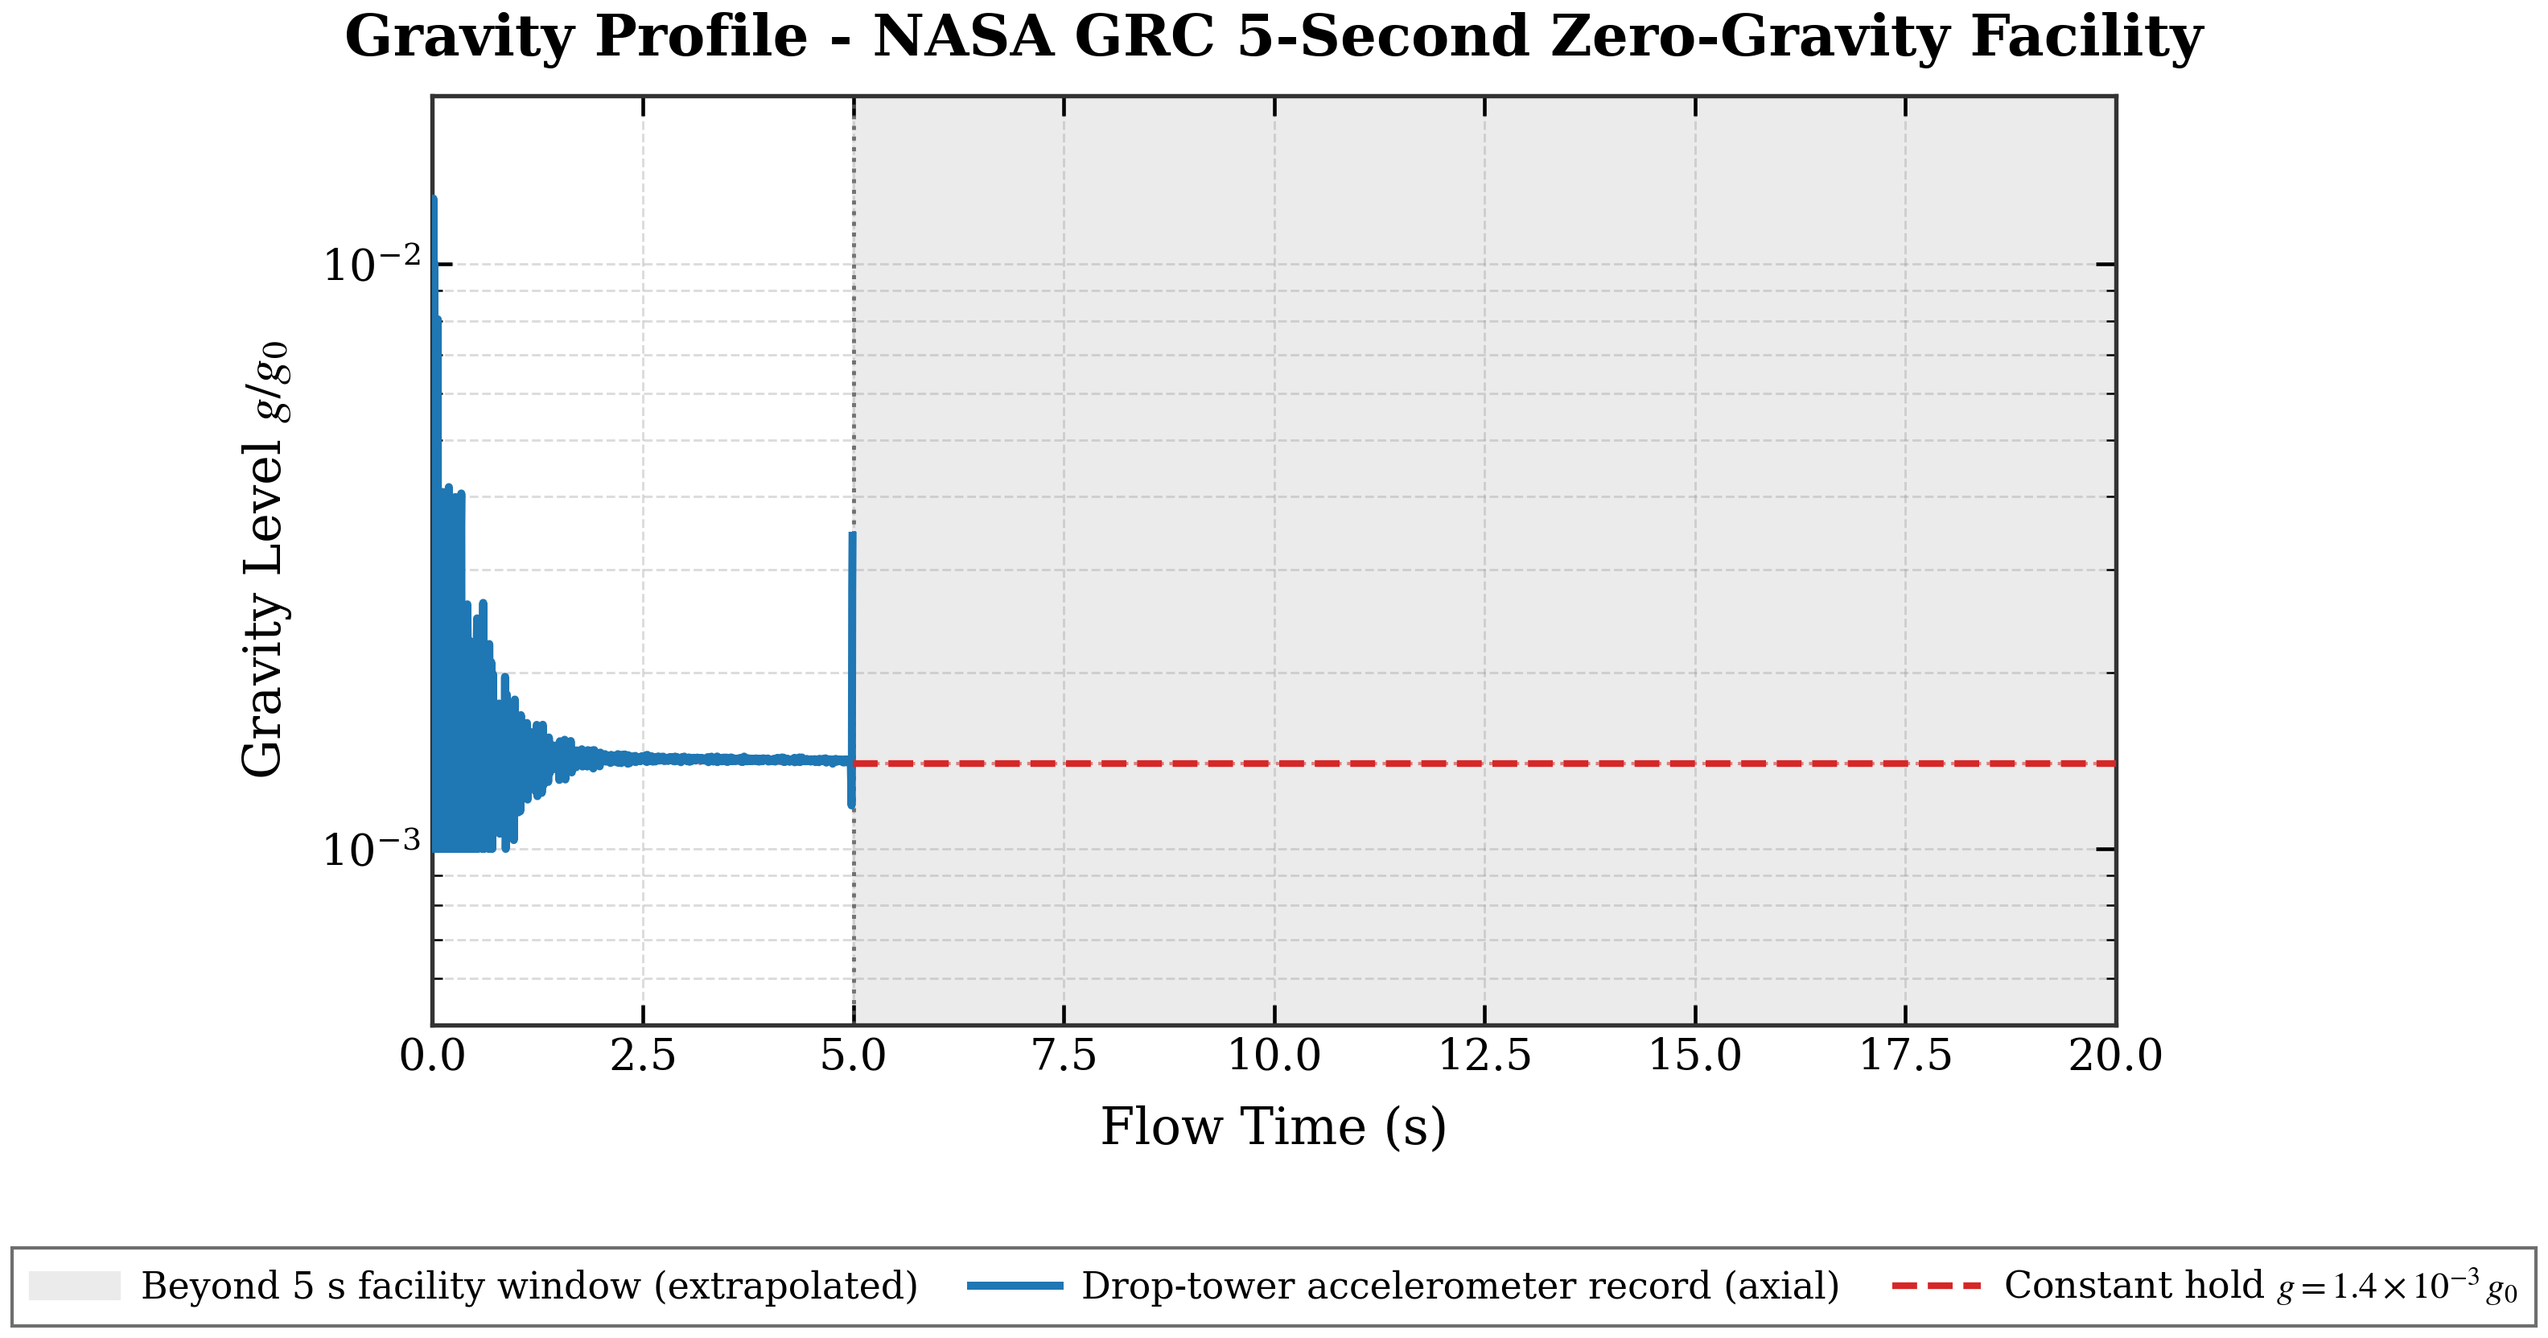
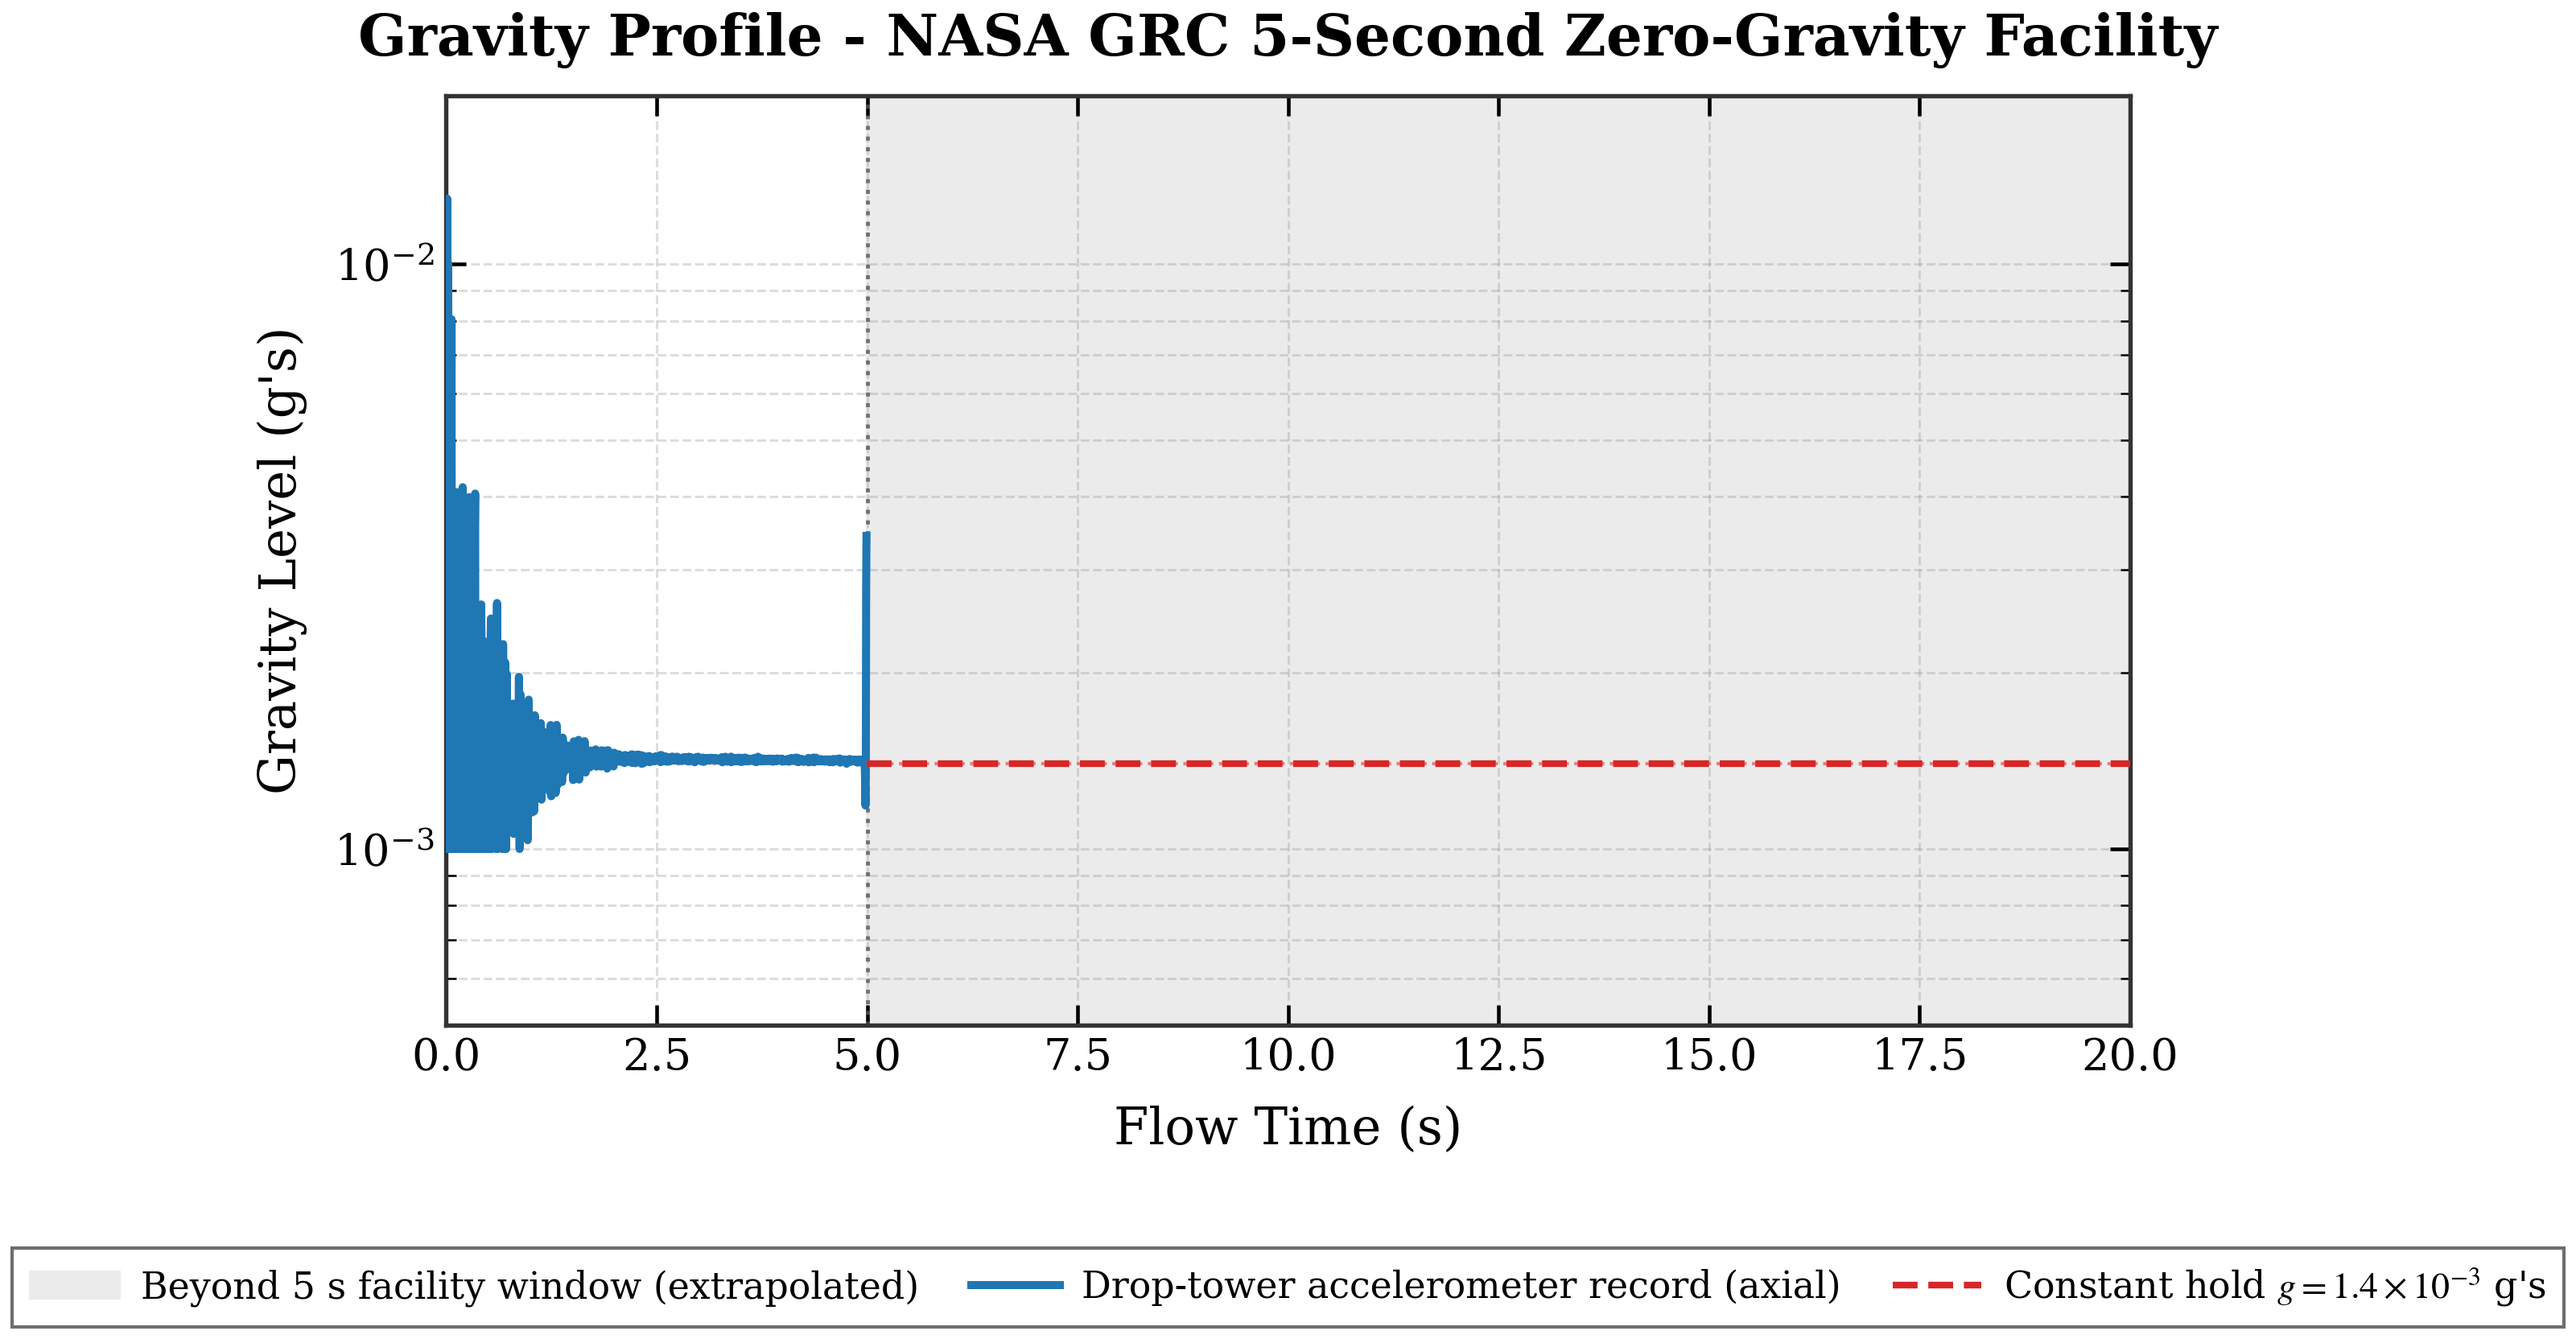
Add raw 3-axis accelerometer figure (unfiltered) preceding processed gravity profile; relabel y-axis 'g/g0' -> 'g's' on processed profile; supporting text describes capsule-release ringdown transient and lateral-residual magnitudes

diff --git a/main.tex b/main.tex
@@ -303,12 +303,23 @@ The candidate platforms were:
     \item \textbf{Parabolic Flight Campaigns:} $\sim 17\,\text{s}$ of reduced gravity ($\sim 10^{-2}$ to $10^{-3}\,$g with typical g-jitter), permitting longer-term thermodynamic stabilization and quasi-steady boiling.
 \end{itemize}
 
-Facility-specific gravity histories are incorporated through a custom \texttt{gravity\_function} callback. For the 5-second zero-gravity facility, accelerometer data from prior drop-tower tests (normalized time, axial acceleration) are converted to m/s$^2$ (ft/s$^2$ internally). The full profile applied to every nitrogen LIQLEV case is shown in Figure~\ref{fig:gravity_profile}: an early ($t \lesssim 0.5\,\text{s}$) transient near $\sim 10^{-2}\,g_0$ associated with capsule release, a damped ringdown over $0.5$--$2\,\text{s}$, and a quasi-steady residual of $\sim 1\text{--}2 \times 10^{-3}\,g_0$ for the remainder of the test window. A constant hold value of $1.4 \times 10^{-3}\,g_0$ is appended past the last measured point so each simulation can be integrated beyond the nominal $5\,\text{s}$ window out to $20\,\text{s}$ (red dashed line in Figure~\ref{fig:gravity_profile}). This post-cutoff segment is a deliberate \textit{hypothetical} extension---the drop tower terminates microgravity at $5\,\text{s}$---used to verify that the predicted peak LLR within the real $5\,\text{s}$ window approaches its asymptotic value. The shaded region beyond $5\,\text{s}$ in this figure and in all subsequent time-history figures marks this extrapolation.
+Facility-specific gravity histories are incorporated through a custom \texttt{gravity\_function} callback. For the 5-second zero-gravity facility, accelerometer data from prior drop-tower tests are post-processed (capsule-aligned axial component, sign-corrected, sampled on a normalized $0$--$5\,\text{s}$ timeline) and converted to m/s$^2$ (ft/s$^2$ internally) before being passed to the solver.
+
+The unfiltered three-axis sensor record from a representative drop is shown in Figure~\ref{fig:gravity_raw} and provides context for the post-processed signal that the solver actually consumes. Immediately after capsule release ($t \lesssim 0.3\,\text{s}$) the axial channel exhibits a damped mechanical-release transient with peak excursions of $\pm 10^{-2}\,$g's, after which all three axes settle to a quasi-steady residual of $\sim 10^{-3}\,$g's for the remainder of the drop. The lateral residuals ($a_y$, $a_z$) remain within $\pm 2 \times 10^{-3}\,$g's once the ringdown decays and are negligible for the boundary-layer-driven LLR analysis, which is dominated by the axial component aligned with the gravity vector.
+
+\begin{figure}[!htbp]
+\centering
+\includegraphics[width=0.95\textwidth]{images/gravity_profile/gravity_raw_5s_si.png}
+\caption{Unfiltered three-axis accelerometer record from a representative NASA GRC 5-second Zero-Gravity Research Facility drop test. Time is normalized to capsule release at $t = 0\,\text{s}$. The axial channel ($a_x$, blue) carries the dominant signal aligned with the gravity vector; the lateral channels ($a_y$, $a_z$, green and red) capture residual capsule motion and remain within $\pm 2 \times 10^{-3}\,$g's after the early ringdown decays.}
+\label{fig:gravity_raw}
+\end{figure}
+
+The processed profile actually applied to every nitrogen LIQLEV case is shown in Figure~\ref{fig:gravity_profile}: it takes the magnitude of $a_x$ from the raw record (cropped to positive values for the solver's gravity-magnitude convention) and appends a constant hold value of $1.4 \times 10^{-3}\,$g's past the last measured point so each simulation can be integrated beyond the nominal $5\,\text{s}$ window out to $20\,\text{s}$ (red dashed line in Figure~\ref{fig:gravity_profile}). This post-cutoff segment is a deliberate \textit{hypothetical} extension---the drop tower terminates microgravity at $5\,\text{s}$---used to verify that the predicted peak LLR within the real $5\,\text{s}$ window approaches its asymptotic value. The shaded region beyond $5\,\text{s}$ in this figure and in all subsequent time-history figures marks this extrapolation.
 
 \begin{figure}[!htbp]
 \centering
 \includegraphics[width=0.95\textwidth]{images/gravity_profile/gravity_profile_5s_si.png}
-\caption{Axial gravity profile applied to the LIQLEV 5-second drop-tower simulations. The blue trace is the accelerometer record from prior NASA GRC 5-second Zero-Gravity Research Facility test runs (cropped to positive axial acceleration), expressed in Earth gravities ($g/g_0$). Past the last measured point at $5\,\text{s}$ the profile is held constant at $1.4 \times 10^{-3}\,g_0$ (red dashed) so each simulation can be integrated to $20\,\text{s}$ for asymptotic-peak verification; the shaded region marks this hypothetical extrapolation beyond the physical facility window.}
+\caption{Processed axial gravity profile applied to the LIQLEV 5-second drop-tower simulations (axial accelerometer magnitude from Figure~\ref{fig:gravity_raw}, plotted on a logarithmic scale in g's). Past the last measured point at $5\,\text{s}$ the profile is held constant at $1.4 \times 10^{-3}\,$g's (red dashed) so each simulation can be integrated to $20\,\text{s}$ for asymptotic-peak verification; the shaded region marks this hypothetical extrapolation beyond the physical facility window.}
 \label{fig:gravity_profile}
 \end{figure}
 
